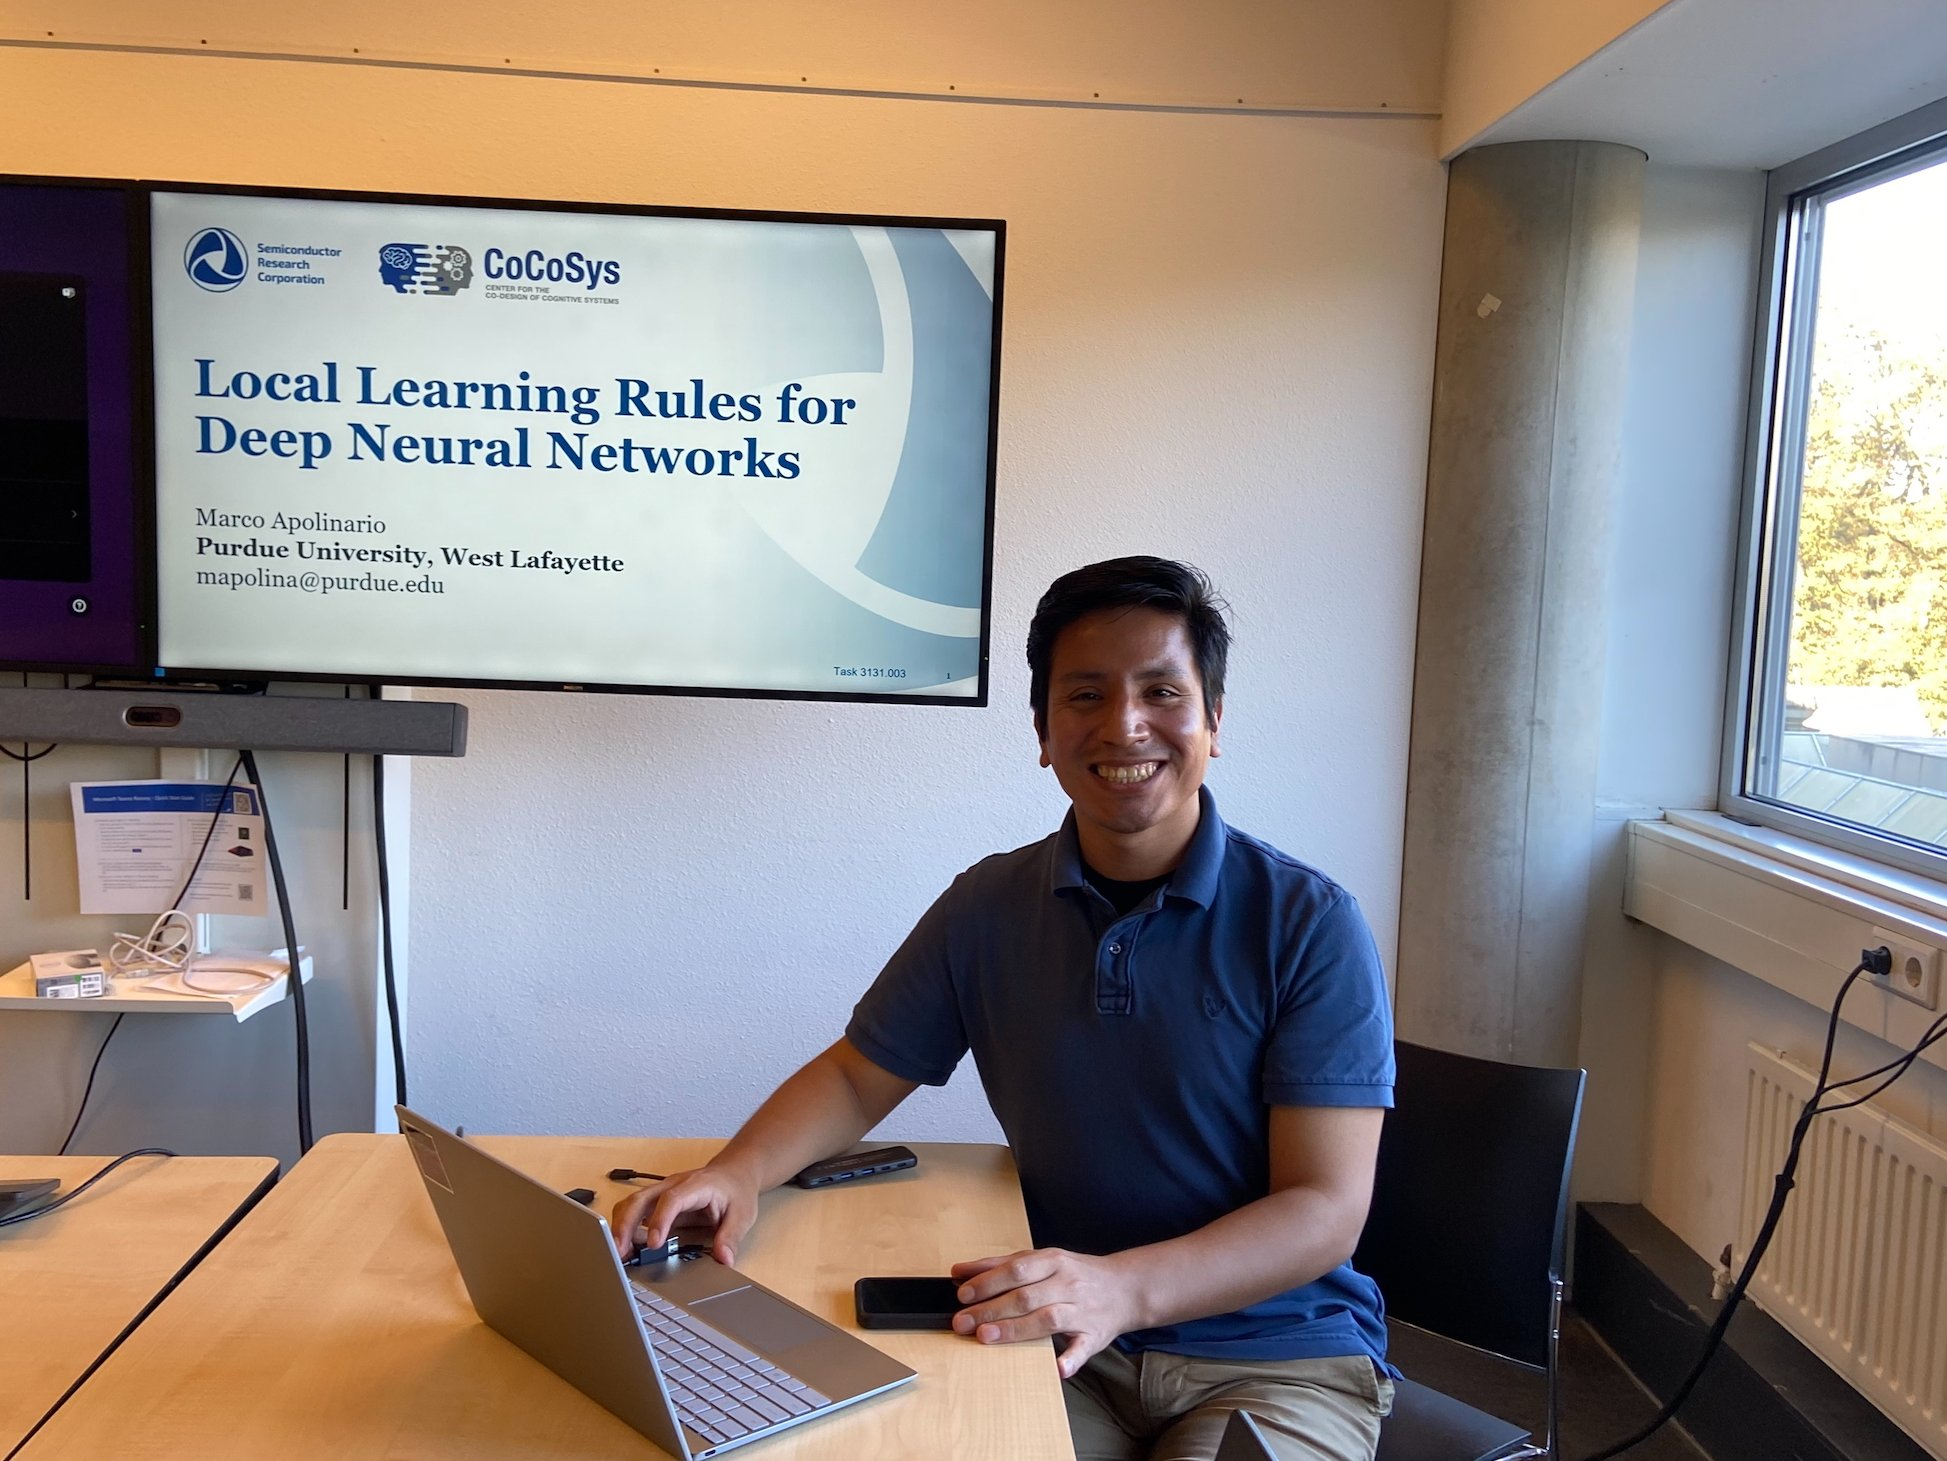
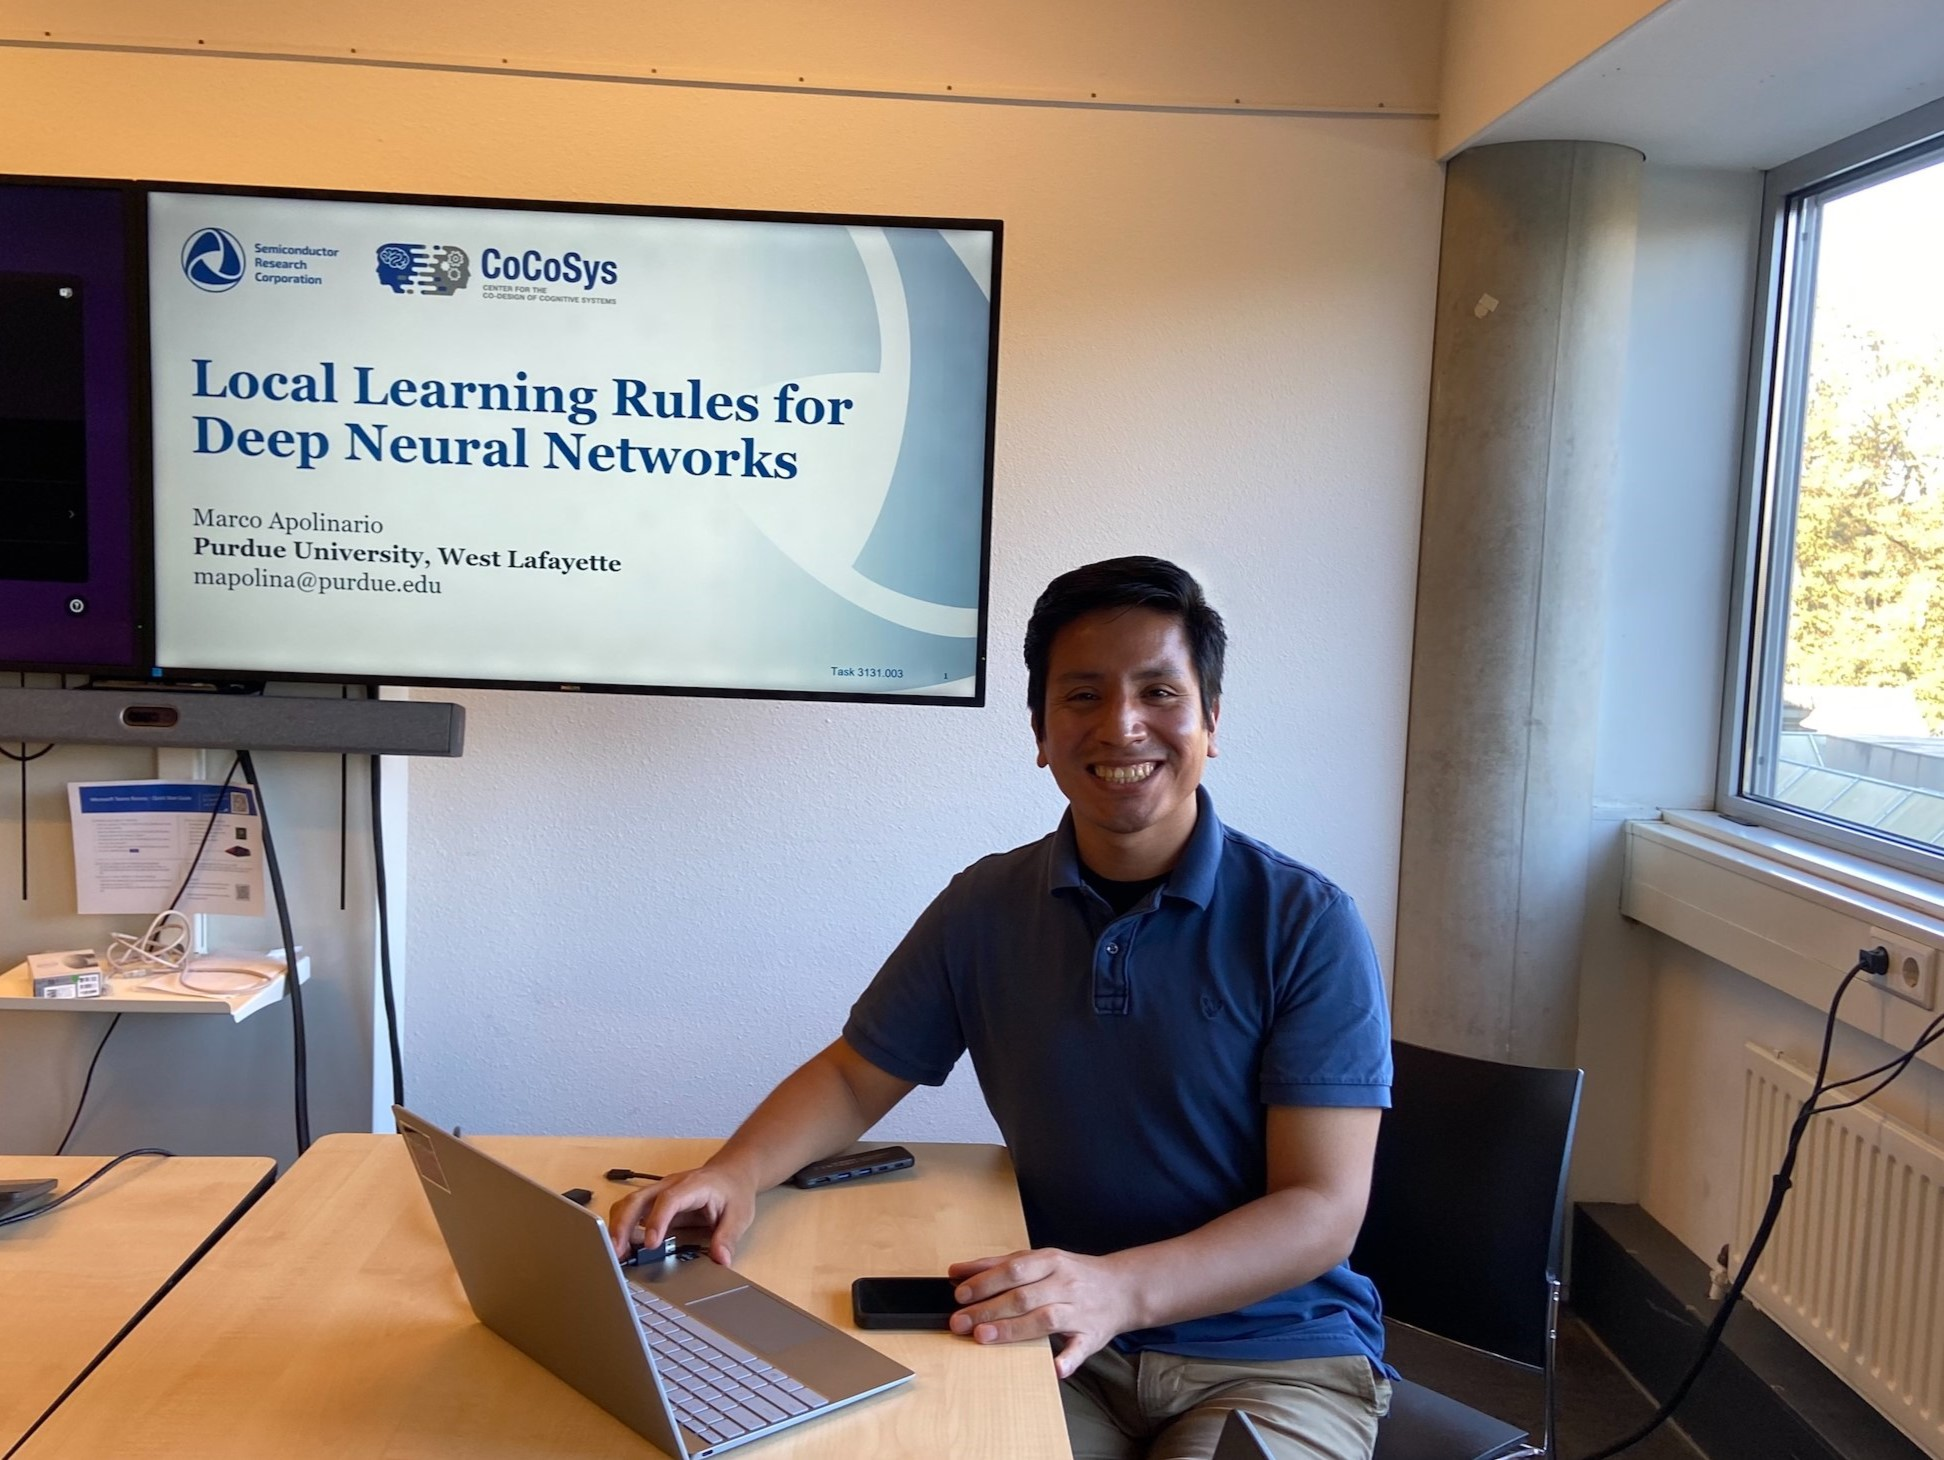
Updating images

diff --git a/_news/2024-09-16-neuropac_fellowship.md b/_news/2024-09-16-neuropac_fellowship.md
@@ -18,11 +18,12 @@ A heartfelt thank you to Prof. Charlotte Frenkel and my advisor Prof. Kaushik Ro
 
 Looking forward to contributing to the advancement of the neuromorphic field and sharing updates on the work ahead!
 
-<div class="row mt-3">
-    <div class="col">
+
+<div class="row justify-content-sm-center">
+    <div class="col-sm-4 mt-3 mt-md-0">
         {% include figure.liquid path="assets/img/neuropac1.jpeg" class="img-fluid rounded z-depth-1" %}
     </div>
-    <div class="col">
+    <div class="col-sm-8 mt-3 mt-md-0">
         {% include figure.liquid path="assets/img/neuropac2.jpeg" class="img-fluid rounded z-depth-1" %}
     </div>
 </div>
